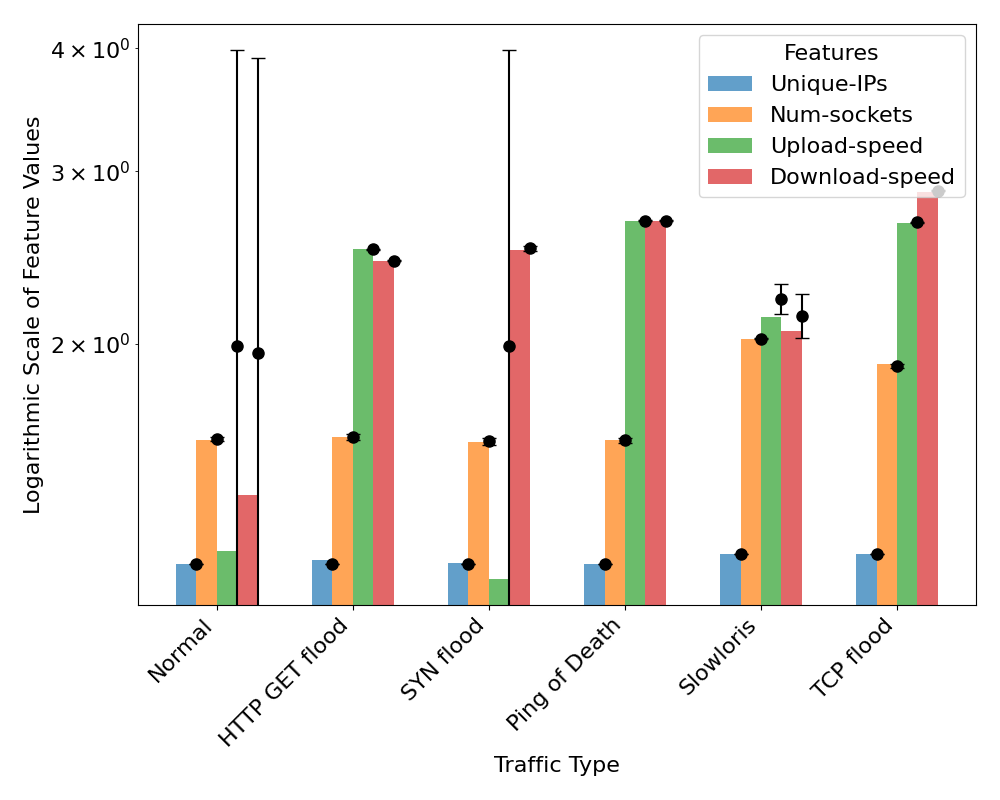
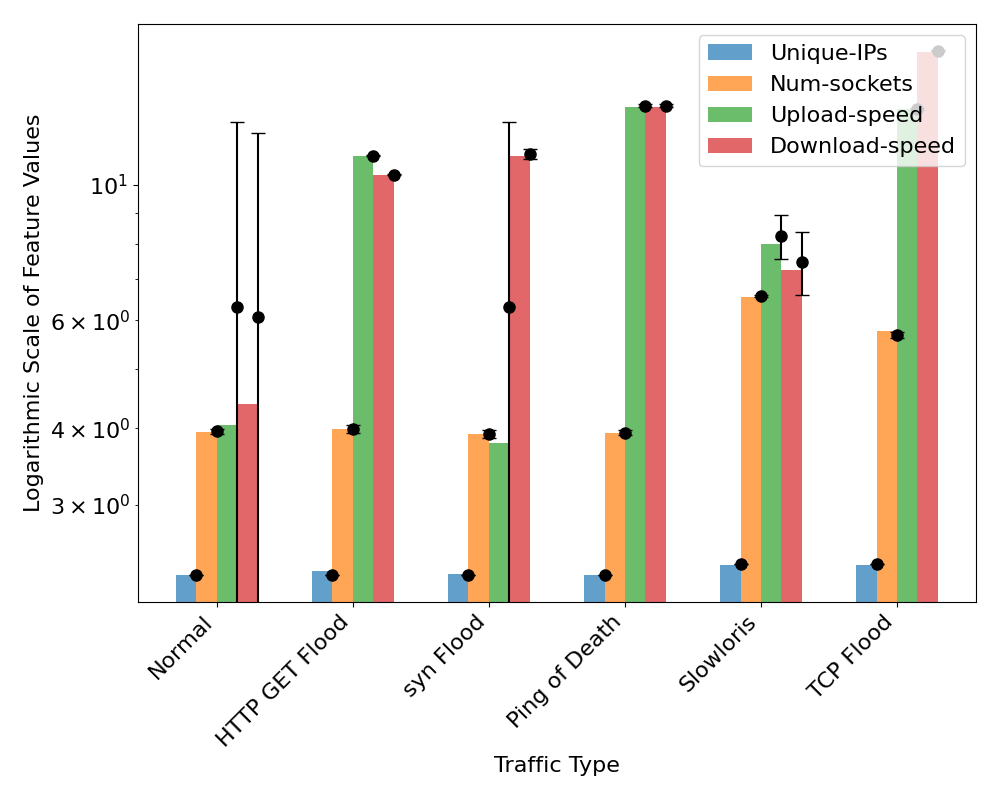
improved figures quality

diff --git a/Plots/correlation.py b/Plots/correlation.py
@@ -1,0 +1,47 @@
+import pandas as pd
+import seaborn as sns
+import matplotlib.pyplot as plt
+from matplotlib import gridspec
+
+# Load the labeled dataset
+labeled_file = 'Data/labeled_db.csv'
+df_labeled = pd.read_csv(labeled_file, parse_dates=['Timestamp'])
+
+# Exclude non-numeric columns (e.g., 'Attack_Type') for correlation analysis
+numeric_columns = df_labeled.select_dtypes(
+    include=['float64', 'int64']).columns
+correlation_matrix = df_labeled[numeric_columns].corr(
+    method='pearson')  # Use Pearson correlation
+
+# Create a 2x1 grid layout
+fig = plt.figure(figsize=(8, 8))
+# Setting the font to Calibri
+# plt.rcParams['font.family'] = 'Calibri'
+
+gs = gridspec.GridSpec(2, 1, height_ratios=[0.1, 0.9])
+
+# Plot the correlation matrix using Seaborn without numeric values
+heatmap_ax = plt.subplot(gs[1])
+heatmap = sns.heatmap(correlation_matrix, cmap='coolwarm', fmt=".2f", linewidths=.5, xticklabels=correlation_matrix.columns,
+                      yticklabels=correlation_matrix.columns, cbar_kws={'label': 'Correlation Coefficient'}, annot=False, ax=heatmap_ax)
+
+# Increase the font size of X and Y-axis labels
+heatmap.set_xticklabels(heatmap.get_xticklabels(), size=12)
+# Rotate Y-axis labels to the right
+heatmap.set_yticklabels(heatmap.get_yticklabels(), size=12,  ha='right')
+
+# Rotate X-axis labels to the right
+plt.xticks(ha='right', rotation=45)
+
+# Adjust figure layout to prevent label cutoff
+plt.subplots_adjust(bottom=0.17)
+
+# Add description above the matrix
+description_ax = plt.subplot(gs[0])
+description_ax.text(0.5, 0.5, '', ha='center', va='center',
+                    fontsize=16)  # Empty string for no title
+description_ax.axis('off')
+# tight layout
+plt.tight_layout()
+fig.savefig('figure/ddos-corr.png')
+plt.show()

diff --git a/Plots/features_net.py b/Plots/features_net.py
@@ -51,7 +51,7 @@ for i, Attack_type in enumerate(df['Attack-type'].unique()):
 # Create a legend with consistent colors and feature labels
 # ax.legend(bars, desired_feature_order, title='Features',
 #           loc='best', bbox_to_anchor=(1, 1))
-ax.legend(bars, desired_feature_order, title='Features', loc='upper right')
+ax.legend(bars, desired_feature_order, loc='upper right')
 ax.set_ylabel('Logarithmic Scale of Feature Values')
 plt.yscale('log')  # Use logarithmic scale for the Y-axis
 plt.xlabel('Traffic Type')

diff --git a/Plots/features_sys.py b/Plots/features_sys.py
@@ -51,7 +51,7 @@ for i, attack_type in enumerate(df['Attack-type'].unique()):
                 fmt='o', color='black', markersize=8, capsize=5, label='_nolegend_')
 
 # Create a legend with consistent colors and feature labels
-ax.legend(bars, desired_feature_order, title='Features',
+ax.legend(bars, desired_feature_order,
           loc='upper left')
 
 ax.set_ylabel('Percentage of Max Recorded Feature Values')
